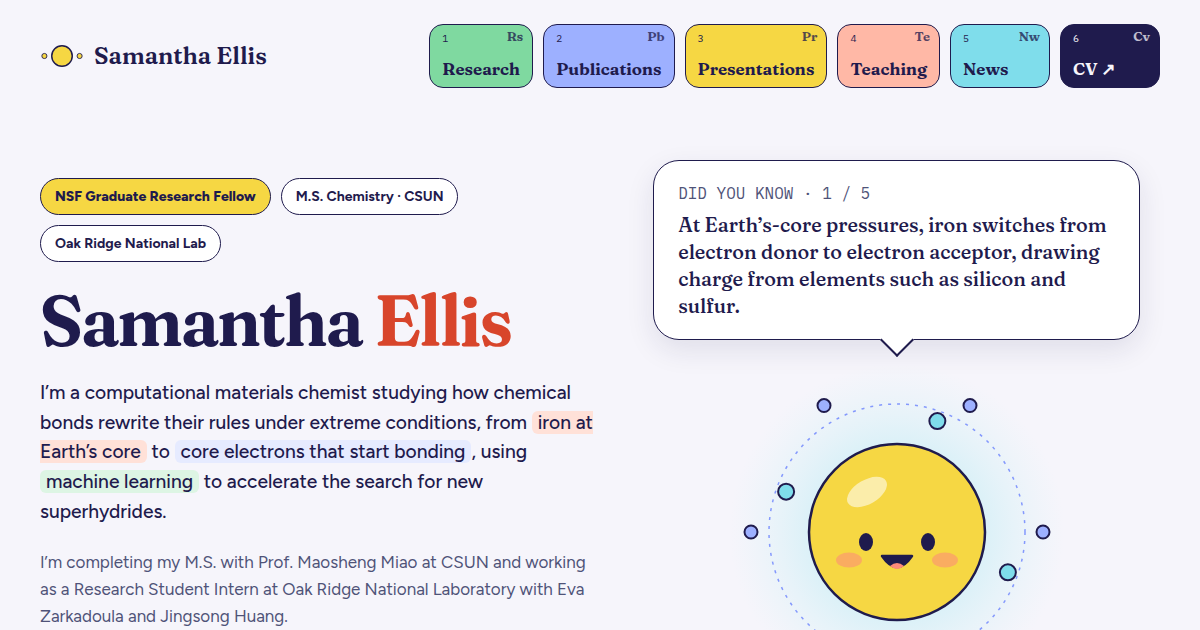
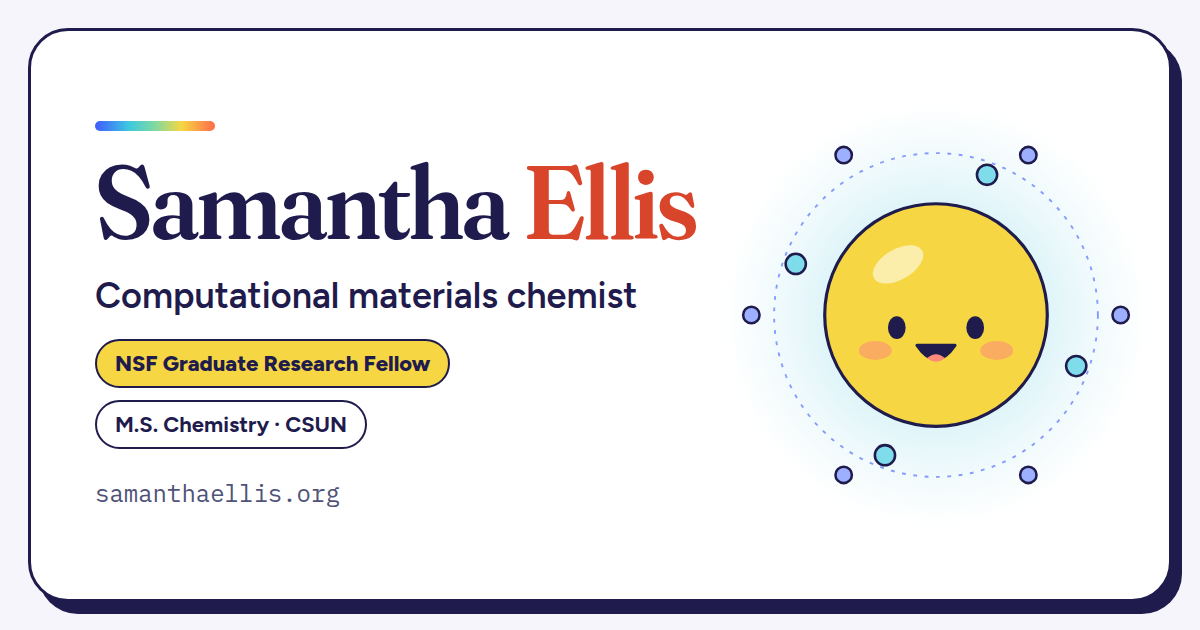
Use a custom card for the link-preview image
Replace the page screenshot with a 1200x630 card in the site's style:
name, role, NSF GRFP and CSUN pills, URL and the atom mascot. Stays
legible at thumbnail size.

Claude-Session: https://claude.ai/code/session_01Bbn9pXs5QprQbVJbE9uJ7v

diff --git a/app/layout.jsx b/app/layout.jsx
@@ -14,7 +14,7 @@ export const metadata = {
     siteName: "Samantha Ellis",
     title,
     description,
-    images: [{ url: "/og-image.png", width: 1200, height: 630, alt: "Top of Samantha Ellis's research website" }],
+    images: [{ url: "/og-image.png", width: 1200, height: 630, alt: "Samantha Ellis, computational materials chemist, NSF Graduate Research Fellow" }],
   },
   twitter: { card: "summary_large_image", title, description, images: ["/og-image.png"] },
 };
